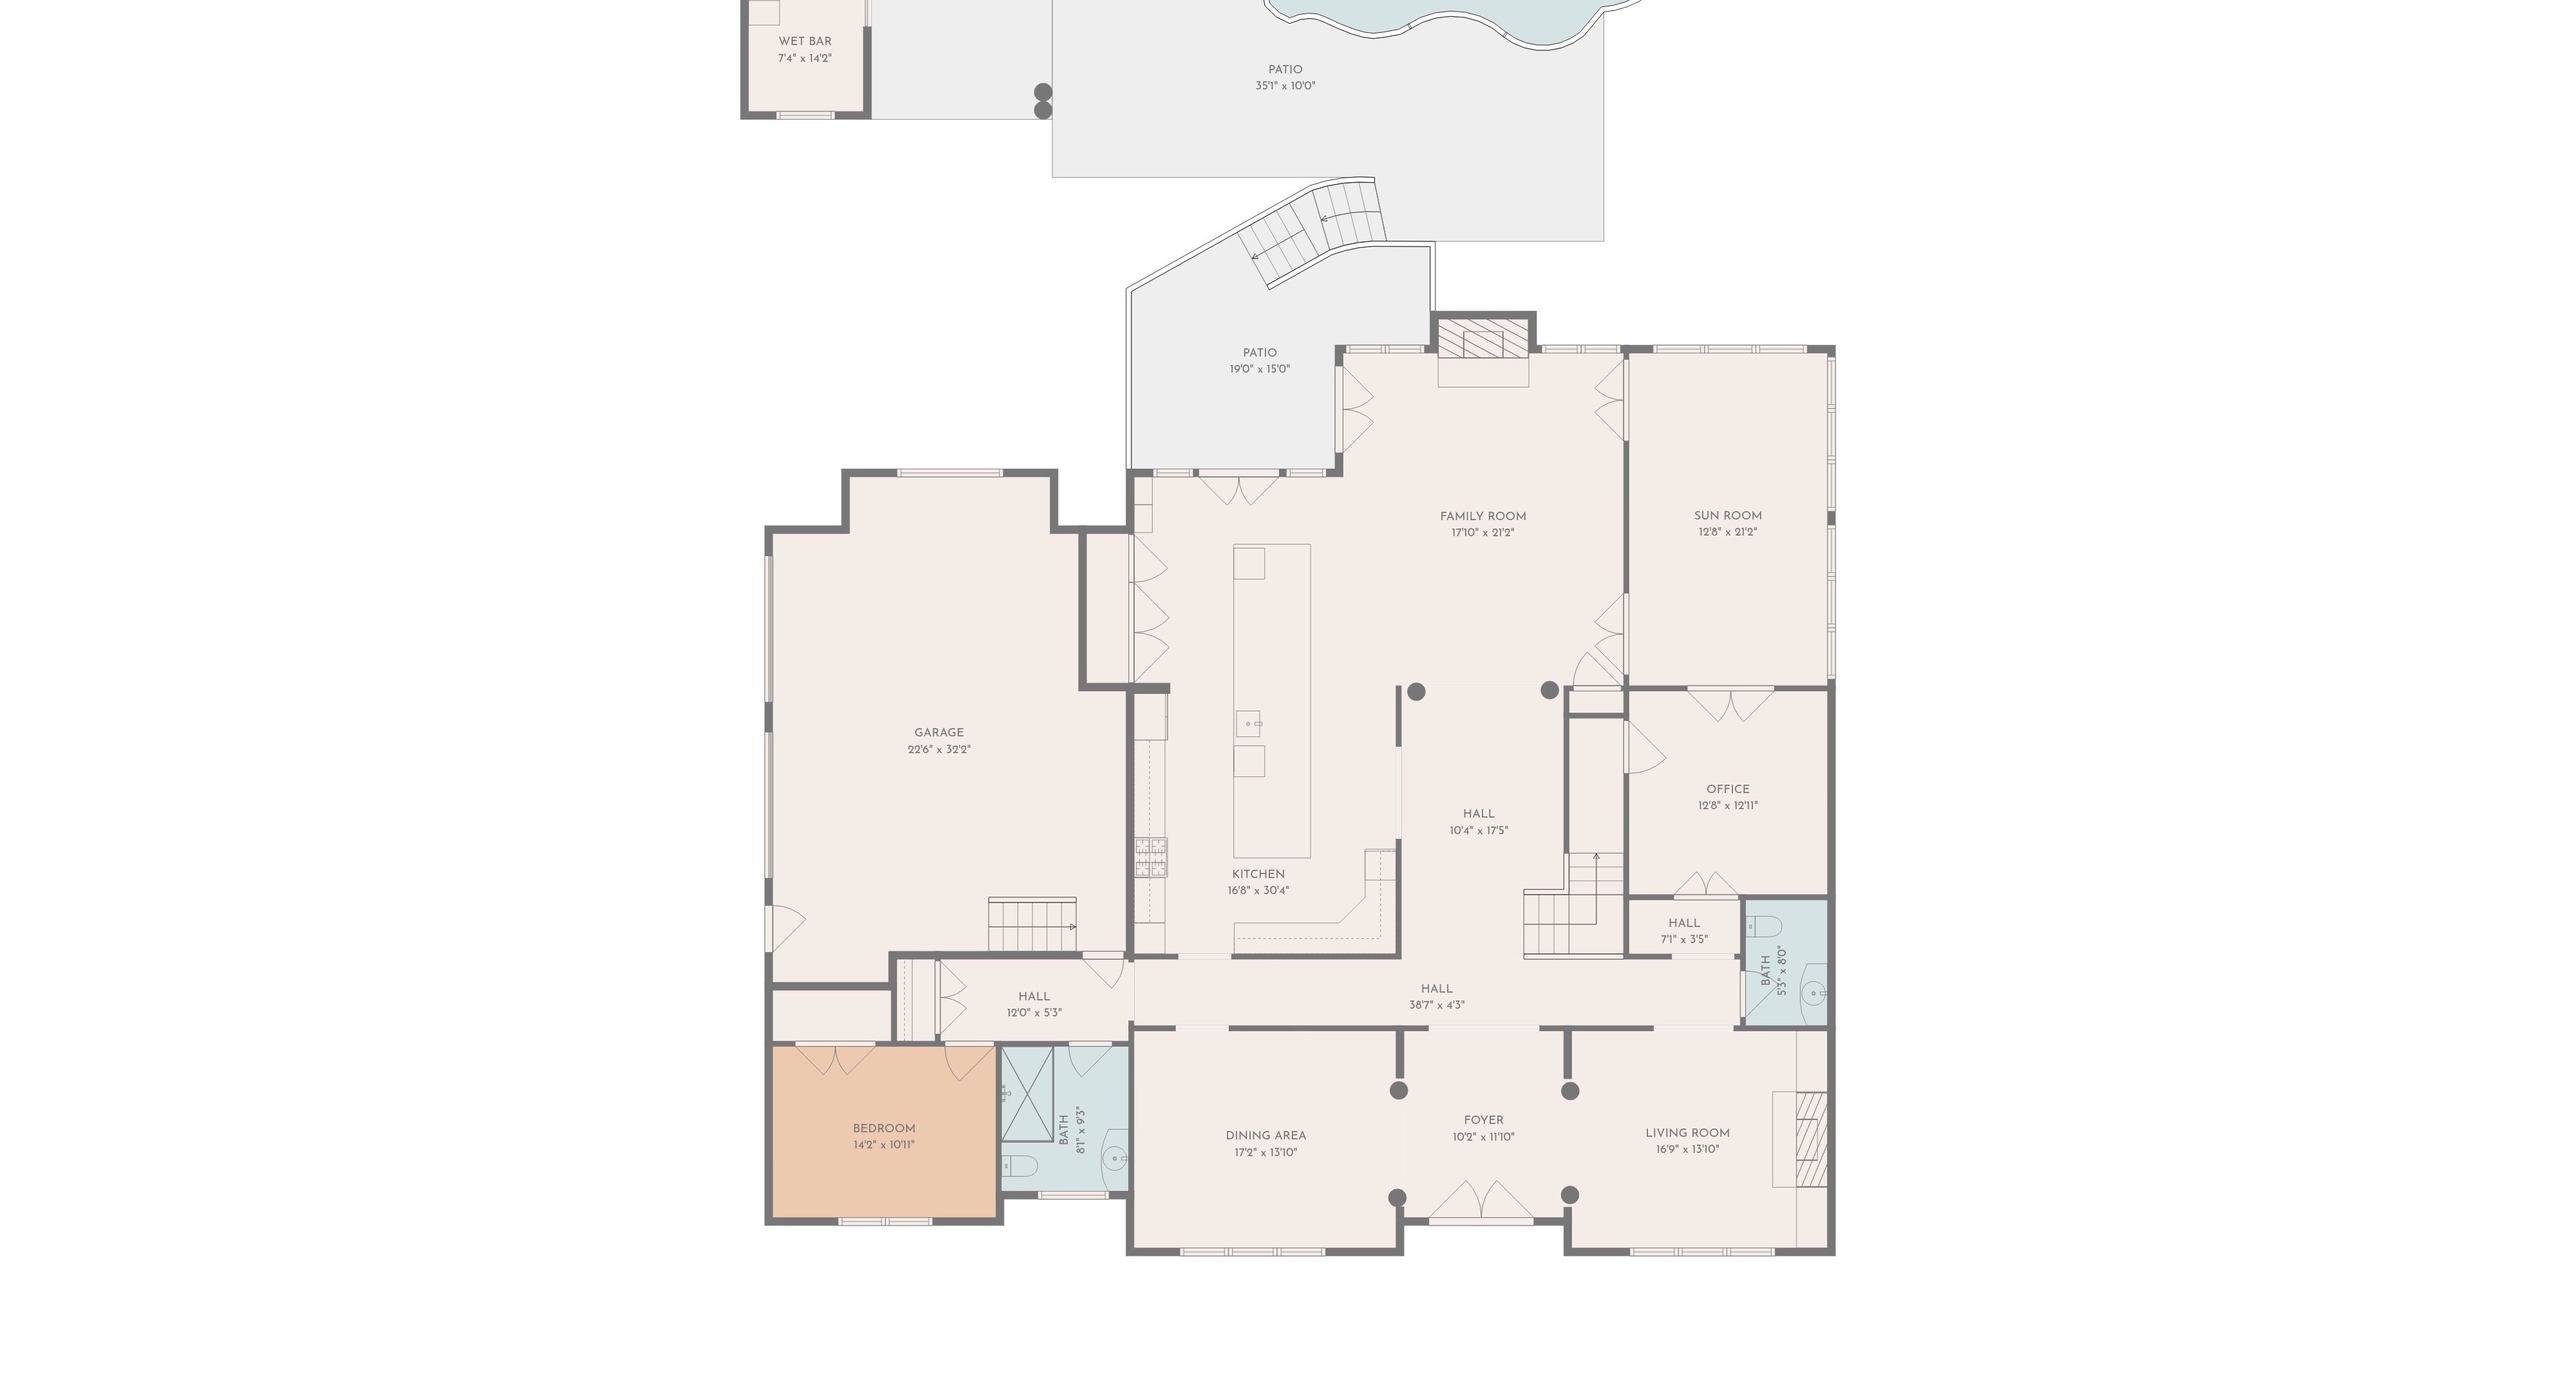
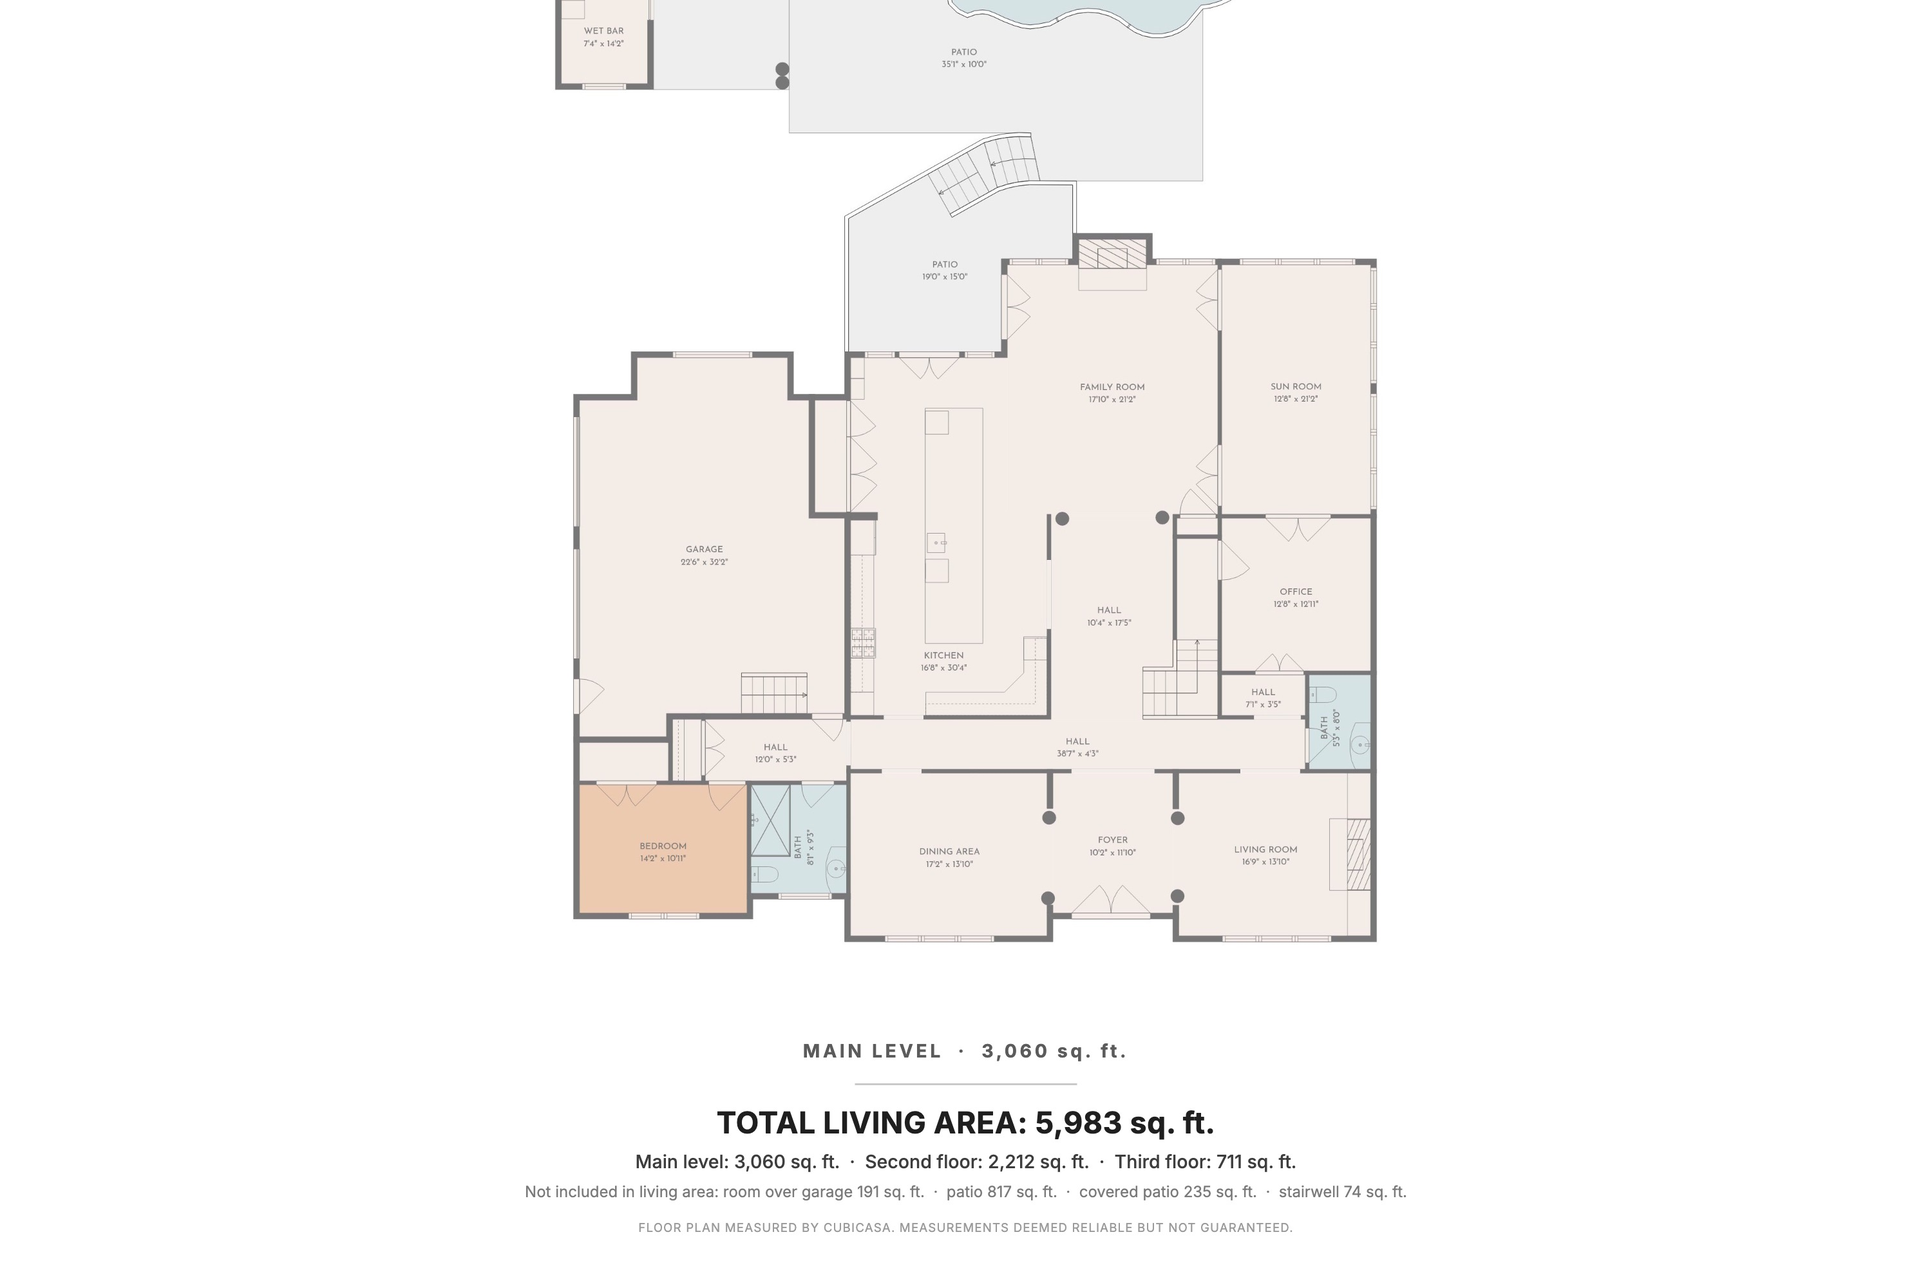
Leabrook: living area 5,983, corrected floor plan sheets
Third floor counted as living area per the architect's ceiling-height
verification. Living area is now 3,060 + 2,212 + 711 = 5,983. The 191
over the garage stays outside the figure and is shown as extra.

Regenerated all five floor plan sheets with correct totals rendered on
them, replacing the CubiCasa footers that printed TOTAL: 6827.

Lot-size soft-spot framing removed. Bath count on the page reads 4 full
and 3 half off the plan fixtures, flagged in the draft bar for Miles to
confirm against his own count of 5.

diff --git a/public/scaffold/listing-10820-leabrook-dr.html b/public/scaffold/listing-10820-leabrook-dr.html
@@ -4,7 +4,7 @@
 <meta charset="utf-8"/>
 <meta name="viewport" content="width=device-width, initial-scale=1, viewport-fit=cover"/>
 <meta name="robots" content="noindex,nofollow"/>
-<meta name="description" content="10820 Leabrook Drive, Glen Allen VA 23059. Five bedrooms, 5,272 square feet of living area plus 902 finished bonus feet, with Dominion Club course frontage, a pool with a covered pavilion, and the measured floor plan of every level published up front."/>
+<meta name="description" content="10820 Leabrook Drive, Glen Allen VA 23059. Five bedrooms and 5,983 square feet of living area across three finished levels, with Dominion Club course frontage, a pool with a covered pavilion, and the measured floor plan of every level published up front."/>
 <link rel="canonical" href="https://mamsnow.com/scaffold/listing-10820-leabrook-dr.html"/>
 <title>10820 Leabrook Drive | Glen Allen VA | MAMS</title>
 <!-- 10820 Leabrook Drive, Glen Allen VA. Built from mams-listing-engine template 2026-08-18.
@@ -873,16 +873,14 @@
 <!-- ================= INTERNAL DRAFT BAR. DELETE THIS BLOCK BEFORE ANY BUYER SEES THE PAGE. ================= -->
 <div class="draftbar">
   <b>Internal draft &middot; not for send</b>
-  <div style="margin-top:5px"><strong style="color:#fff">Measurement independently verified. Prior sale record pulled. Read before pricing.</strong></div>
+  <div style="margin-top:5px"><strong style="color:#fff">Page now runs 5,983 living area per your call on the third floor. Two things to confirm before this goes out.</strong></div>
   <ul>
-    <li><strong>GLA 5,272 is confirmed.</strong> Every polygon in the CubiCasa formula file was recomputed from its raw coordinates. Main level 3,060 (recomputed 3,057.8), bedroom level 2,212 (recomputed 2,210.6). Total recomputes to 5,268.4 against 5,272 stated, a 3.6 foot rounding difference. The measurement is sound.</li>
-    <li><strong>But the house has roughly 6,000 finished feet a person walks on.</strong> GLA 5,272 plus the 711 top floor is 5,979. Add the 191 over the garage and it is 6,170. Both rooms are finished and excluded from GLA, which is why the walked number and the counted number disagree.</li>
-    <li><strong>Prior sale, MLS 2134264:</strong> listed $1,250,000, sold $1,125,000 on April 13 2022. Recorded then at <strong>5,315 sq ft, 4 bedrooms, 5 baths, 18,430 sq ft lot.</strong> That 5,315 against today's 5,272 is a 43 foot difference. <strong>No square footage was added.</strong></li>
-    <li><strong>What actually changed since 2022.</strong> The 2021 listing describes "two offices (or a potential 5th bedroom)" on the first floor. Today's plan shows one office and one bedroom with a full bath. An office became the fifth bedroom. The top floor also reads as finished now. Neither move adds GLA, which is why the number did not change.</li>
-    <li><strong>The top floor has never been counted, in 2021 or now.</strong> The 2021 listing describes only the first and second levels, and 5,315 lines up with the two-level total. So that 711 feet has never appeared in any published figure for this house. Worth asking the appraiser directly whether it qualifies under ANSI on ceiling height, since it is finished, heated and reached by its own conventional stair. That call is the difference between $360 and $318 a foot.</li>
-    <li><strong>Lot is the soft spot.</strong> 18,430 sq ft is 0.42 of an acre. The $1,699,950 comp on Elliot Ridge sits on 1.1 acres, roughly two and a half times the land. Course frontage is the counterargument, and it needs golf-front comps to carry it.</li>
-    <li><strong>Also confirmed from the 2021 listing:</strong> it is brick under the current paint, the pool predates the 2022 purchase, and it was already marketed as being on The Dominion Club golf course.</li>
-    <li><strong>Still open:</strong> GPIN, Henrico assessment, HOA dues, the year the top floor was finished, interior photos of the bedroom levels, and Dominion Club course-frontage comps from CVR MLS.</li>
+    <li><strong>Use 5,983, not 5,979.</strong> 5,979 was my recomputation off the raw coordinates and carries rounding. 5,983 is the sum of CubiCasa's own stated per-floor figures, 3,060 plus 2,212 plus 711, which is what an appraiser reads off the report. Four feet apart, but a total that does not equal the sum of its parts is the kind of thing that gets caught. Everything on this page and on the new plan sheets says 5,983.</li>
+    <li><strong>Third floor counted, per the architect's ceiling heights.</strong> The 711 is now living area, and the plan sheet labels it Third Floor rather than bonus. The 191 over the garage stays outside the figure and is shown as extra.</li>
+    <li><strong>Bath count, and this is the one to check.</strong> Reading the fixtures on the plan I get <strong>4 full and 3 half</strong>, not 5 full. Full: the main level bedroom's bath at 8'1" x 9'3" (shower, toilet, sink), the primary, the ensuite off the 12'8" bedroom at 9'1" x 7'10", and the jack-and-jill at 7'8" x 5'8" with a tub. Half: the hall bath at 5'3" x 8'0" (toilet and sink only, no shower drawn), the bath inside the laundry, and the pool bath at the cabana. The 2021 listing carried 5 baths with 4 bedrooms. If you count 5 full, one I read as a half has a shower the plan does not show, and I will change it on your word.</li>
+    <li><strong>Lot line pulled.</strong> The soft-spot framing on the 0.42 acre is off the page. Your read on prime course frontage is the one that ships.</li>
+    <li><strong>Prior sale for your file:</strong> MLS 2134264, listed $1,250,000, sold $1,125,000 on April 13 2022, recorded then at 5,315 sq ft, 4 bed, 5 bath, 18,430 sq ft lot. Against 5,983 today the difference is the third floor, which has never appeared in a published figure for this house.</li>
+    <li><strong>Still open before send:</strong> GPIN, Henrico assessment, HOA dues, and interior photos of the bedroom levels. That last one is the real gap for a buyer at this number.</li>
   </ul>
 </div>
 
@@ -901,7 +899,7 @@
     <div class="hero__eyebrow">Private Preview &middot; Dominion Club, Glen Allen</div>
     <div class="hero__address">10820 Leabrook Drive, Glen Allen, VA 23059</div>
     <h1 class="hero__title">You have been waiting on the one that backs to the fairway.<br/><em>This is that one.</em></h1>
-    <p class="hero__sub">Five bedrooms and 5,272 square feet of living area, with another 902 finished feet on top of it that no listing sheet will count. A pool with a covered cabana and a wet bar. Frontage on the Dominion Club course.</p>
+    <p class="hero__sub">Five bedrooms and 5,983 square feet across three finished levels. Frontage on the Dominion Club course. A pool with a covered cabana and a wet bar. And a main level bedroom with its own full bath.</p>
     <div class="hero__pricerow">
       <div class="hero__price">$1,900,000 to $2,000,000</div>
       <div class="hero__badge">Pre-market preview</div>
@@ -911,15 +909,15 @@
   <section class="block">
     <div class="eyebrow">Fast Facts</div>
     <h2 class="section__title">The home, <em>at a glance.</em></h2>
-    <p class="section__lede">These come off a measured architectural floor plan, not a listing sheet. The living area and the bonus space are listed separately, because that is the honest way to show it.</p>
+    <p class="section__lede">These come off a measured architectural floor plan, not a listing sheet. The plan itself is further down the page so you can check every one of them.</p>
 
     <div class="facts">
-      <div class="fact"><div class="fact__label">Living area</div><div class="fact__value">5,272 sq ft<span class="sub">Main level and bedroom level</span></div></div>
-      <div class="fact"><div class="fact__label">Plus bonus space</div><div class="fact__value">902 sq ft<span class="sub">Third floor and over the garage</span></div></div>
+      <div class="fact"><div class="fact__label">Living area</div><div class="fact__value">5,983 sq ft<span class="sub">Three finished levels</span></div></div>
       <div class="fact"><div class="fact__label">Bedrooms</div><div class="fact__value">5<span class="sub">Four up, one on the main level</span></div></div>
-      <div class="fact"><div class="fact__label">Baths</div><div class="fact__value">4 full, 3 half<span class="sub">One of the halves serves the pool</span></div></div>
+      <div class="fact"><div class="fact__label">Baths</div><div class="fact__value">4 full, 3 half<span class="sub">One half serves the pool</span></div></div>
       <div class="fact"><div class="fact__label">The back yard</div><div class="fact__value">Dominion Club<span class="sub">Course frontage, pool with slide</span></div></div>
-      <div class="fact"><div class="fact__label">Lot</div><div class="fact__value">0.42 acre<span class="sub">18,430 sq ft, backing the course</span></div></div>
+      <div class="fact"><div class="fact__label">Lot</div><div class="fact__value">0.42 acre<span class="sub">18,430 sq ft on the course</span></div></div>
+      <div class="fact"><div class="fact__label">Outdoor living</div><div class="fact__value">1,052 sq ft<span class="sub">817 open patio, 235 covered</span></div></div>
     </div>
   </section>
 
@@ -955,8 +953,8 @@
 
     <div class="angles">
       <div class="angle">
-        <div class="angle__stat">902<span class="unit">Bonus sq ft</span></div>
-        <div><div class="angle__title">Two rooms nobody is counting</div><div class="angle__text">On top of 5,272 square feet of living area, there is a 711 square foot room on the top floor and a 191 square foot room over the garage. Both are finished. Neither shows up in a living area number, which means you use them without paying for them twice.</div></div>
+        <div class="angle__stat">5,983<span class="unit">Sq ft, three levels</span></div>
+        <div><div class="angle__title">Three finished floors, not two and an attic</div><div class="angle__text">3,060 on the main level, 2,212 on the bedroom level, 711 on the third. Homes at this price in Glen Allen usually stop after the second floor. There is also a separate 191 square foot room over the garage on top of all of it.</div></div>
       </div>
       <div class="angle">
         <div class="angle__stat">36'10"<span class="unit">Top floor length</span></div>
@@ -1031,13 +1029,13 @@
     <div class="plan">
       <div class="plan__head">
         <div class="plan__name">Top floor</div>
-        <div class="plan__sq is-bonus">711 sq ft bonus space</div>
+        <div class="plan__sq">711 sq ft living area</div>
       </div>
       <button class="plan__img" data-full="listing-10820-leabrook-pics/plan-04.jpg" aria-label="Open top floor plan full size">
         <img src="listing-10820-leabrook-pics/plan-04.jpg" alt="Top floor plan with room dimensions"/>
       </button>
       <div class="plan__body">
-        <p class="plan__note">One room, 36'10" by 28'8", with its own stair. Currently a game room with a built-in bar. This is finished space that sits outside the living area figure, so it is square footage you get without paying for it on the listing sheet.</p>
+        <p class="plan__note">One room, 36'10" by 28'8", with its own stair. Currently a game room with a built-in bar. Finished, heated, and a full third floor of the house rather than an attic somebody floored over.</p>
         <div class="level__rooms">
           <span class="chip chip--gold">Room 36'10" x 28'8"</span>
           <span class="chip">Built-in bar</span>
@@ -1049,13 +1047,13 @@
     <div class="plan">
       <div class="plan__head">
         <div class="plan__name">Over the garage</div>
-        <div class="plan__sq is-bonus">191 sq ft bonus space</div>
+        <div class="plan__sq is-bonus">191 sq ft, not counted</div>
       </div>
       <button class="plan__img" data-full="listing-10820-leabrook-pics/plan-02.jpg" aria-label="Open above garage floor plan full size">
         <img src="listing-10820-leabrook-pics/plan-02.jpg" alt="Above garage floor plan with room dimensions"/>
       </button>
       <div class="plan__body">
-        <p class="plan__note">A 7'8" by 19'3" room over the garage, open to the level below it. Small, separate, and far from everything else in the house, which is the whole point of a room like this.</p>
+        <p class="plan__note">A 7'8" by 19'3" room over the garage, open to the level below it. It sits outside the living area figure, so it is space you get on top of the 5,983. Small, separate, and far from everything else in the house, which is the whole point of a room like this.</p>
       </div>
     </div>
 
@@ -1072,7 +1070,7 @@
       </div>
     </div>
 
-    <div class="levels__note">Floor plans measured by CubiCasa. Living area of 5,272 square feet counts the main and bedroom levels. The 711 and 191 square foot rooms are finished space that falls outside a standard living area calculation, so they are shown separately rather than folded into one number. Deemed reliable, not guaranteed. Verify anything you intend to rely on.</div>
+    <div class="levels__note">Floor plans measured by CubiCasa. Living area of 5,983 square feet counts the main level at 3,060, the bedroom level at 2,212 and the third floor at 711. The 191 square foot room over the garage sits outside that figure and is shown separately rather than folded in. Deemed reliable, not guaranteed. Verify anything you intend to rely on.</div>
   </section>
 
     <section class="block">
@@ -1093,10 +1091,11 @@
         <tbody>
           <tr><td>Asking</td><td class="yes">$1.9M to $2.0M</td><td>$1,699,950</td><td>$2,250,000</td></tr>
           <tr><td>Bedrooms</td><td class="yes">5</td><td>4</td><td>7</td></tr>
+          <tr><td>Living area</td><td class="yes">5,983 sq ft</td><td>5,759 sq ft</td><td>7,697 sq ft</td></tr>
           <tr><td>Golf course frontage</td><td class="yes">Dominion Club</td><td class="no">No</td><td class="no">No</td></tr>
           <tr><td>Pool</td><td class="yes">With slide</td><td class="no">No</td><td class="no">No</td></tr>
           <tr><td>Covered pavilion with wet bar</td><td class="yes">235 sq ft</td><td class="no">No</td><td class="no">No</td></tr>
-          <tr><td>Finished top floor</td><td class="yes">711 sq ft with a bar</td><td class="no">No</td><td class="no">No</td></tr>
+          <tr><td>Third finished floor</td><td class="yes">711 sq ft with a bar</td><td class="no">No</td><td class="no">No</td></tr>
           <tr><td>Main level bedroom</td><td class="yes">With full bath</td><td class="no">No</td><td class="no">No</td></tr>
           <tr><td>Measured floor plan published</td><td class="yes">Yes, above</td><td class="no">No</td><td class="no">No</td></tr>
         </tbody>
